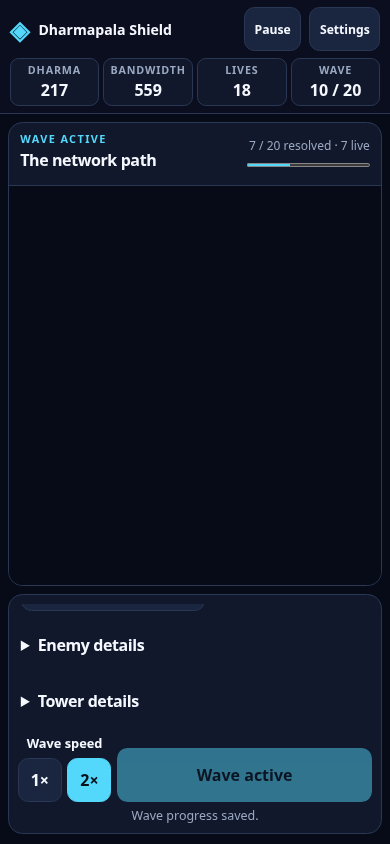
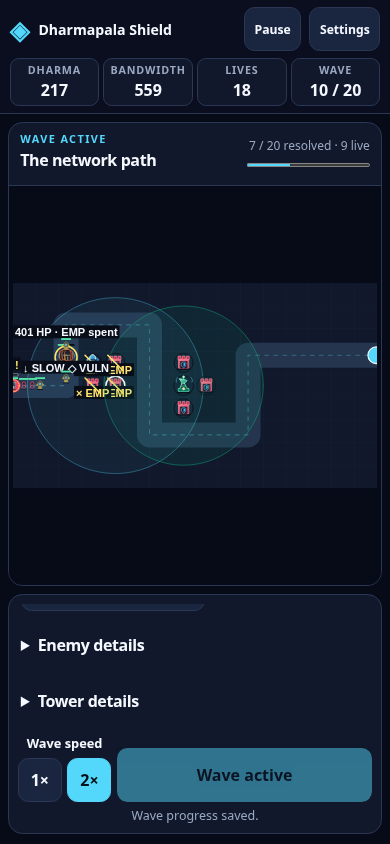
Verify production repaint after touch rotation and refine captured evidence

Changed region(s): [[0.0308, 0.3389, 0.9846, 0.5853], [0.8615, 0.154, 0.8923, 0.1848]]

diff --git a/tests/e2e/campaign.spec.js b/tests/e2e/campaign.spec.js
@@ -259,6 +259,11 @@ async function rotate(page, label, rotations, testInfo) {
     const start = page.locator('#start-wave-button');
     await expect(start).toBeInViewport({ ratio: 1 });
     await expect(start).toBeEnabled({ enabled: before.state.phase === 'BUILDING' });
+    // ResizeObserver can clear the bitmap after the earlier frame. Allow the
+    // next ordinary production frames to paint, then verify visible canvas ink.
+    await page.clock.runFor(32);
+    expect(await page.locator('#game-canvas').evaluate(canvas =>
+      canvas.getContext('2d').getImageData(0, 0, 1, 1).data[3])).toBe(255);
     const current = await snapshot(page);
     expect(current.state.phase).toBe(before.state.phase);
     if (before.state.phase === 'BUILDING') expect(current.state.resources).toEqual(before.state.resources);

diff --git a/design/reviews/2026-11-14-m4.5-touch-audit/README.md b/design/reviews/2026-11-14-m4.5-touch-audit/README.md
@@ -78,6 +78,19 @@ than an enabled generic Upgrade button, and reinspection must retain the
 already selected tower when comparing full build snapshots. These were test
 assumption corrections, not further product defects.
 
+An initial [portrait rotation capture](rotation-before-render.png) was taken
+after a ResizeObserver callback cleared the canvas bitmap and before the next
+paint while browser time was paused. The final driver advances another 32 ms
+of ordinary RAF after UI interaction and asserts an opaque painted canvas
+pixel before each rotation capture. It never calls resize/render manually.
+This is a harness scheduling correction, not a persistent blank battlefield
+reproduced under freely running frames. A clean-pipeline attempt at `367379c`
+was stopped during its first browser scenario to include this stronger
+checkpoint; unit/integration/simulation had passed, but that interrupted run
+is not the completed clean pipeline. One immediate focused restart reused the
+stopping server and failed reload with connection refused; the final focused
+run uses CI=1 and its own server, and passes.
+
 ## Checks and checkpoints
 
 Every wave verifies authored preview counts/windows, boss warning, roster
@@ -97,7 +110,7 @@ run at earned build before wave 4 and during active spent-EMP combat in wave
 10. They inspect the earned tower and roster in both orientations and verify
 that Start Wave stays in the viewport with the correct enabled state.
 Build rotation leaves full state/runtime unchanged. Combat rotation advances
-ordinary RAFs (64 browser ms in each orientation), retains tower identity,
+ordinary RAFs (64 browser ms after resize plus 32 ms after interaction in each orientation), retains tower identity,
 branches, lives and pending reports, and allows production combat to proceed.
 Rotation snapshots/captures are observations, not claims of physical orientation
 sensor or device testing. Natural victory freezes, survives reload/Continue,
@@ -126,7 +139,7 @@ lives, duration and summed tower activity. No historical artifact was refreshed.
 | Earned bounty | 7380 / 3677 / 0 |
 | Clear income, including passive Dharma | 3932 / 1153 / 0 |
 | Production combat time | 385733.3333334162 ms (385.733 s) |
-| Focused automation wall time | 103696.154 ms (103.696 s); machine-dependent |
+| Focused automation wall time | 100853.487 ms (100.853 s); machine-dependent |
 
 The whole-campaign ledger is `130 + 7380 + 3932 - 9215 = 2227` Dharma,
 `60 + 3677 + 1153 - 1062 = 3828` Bandwidth, and zero numeric Anonymity.
@@ -134,17 +147,17 @@ This is M4.3's `save` recovery, not its different `existing` opening.
 
 | Paused reload checkpoint | Combat ms | Reports | Resources D/B/A | Retained combat state |
 | --- | ---: | ---: | --- | --- |
-| Build before wave 4 | 62516.667 | 3 | 85/84/0 | Earned towers/explicit branches |
-| Wave-10 spent EMP, after rotation | 173616.667 | 9 | 217/559/0 | Live Raid 400.8276 health, phase 1 fired; minions/schedule retained |
-| Wave-15 damaged Titan | 238716.667 | 14 | 74/1263/0 | Live Titan 1045 health, 359.92 shield |
+| Build before wave 4 | 62516.667 | 3 | 85/84/0 | Earned tower levels (no level-3 choice yet) |
+| Wave-10 spent EMP, after rotation | 173733.333 | 9 | 217/559/0 | Live Raid 400.8276 health, phase 1 fired; minions/schedule retained |
+| Wave-15 damaged Titan | 238700.000 | 14 | 74/1263/0 | Live Titan 1045 health, 359.92 shield |
 | Build before wave 16 | 256533.333 | 15 | 71/1644/0 | Earned towers/explicit branches; subsequent purchases succeed |
 
 All four keep 2× and pass complete snapshot/state/runtime equality on
 reload/Continue. Build rotation keeps 62516.667 combat ms exactly. Active
-rotation advances 173366.667 → 173483.333 → 173616.667 combat ms through
+rotation advances 173350.000 → 173550.000 → 173733.333 combat ms through
 ordinary scheduled frames at 2×; wave duration and all later gameplay still
-match the desktop run. Native scrolls moved 2648→2528 and 2963→2864 in the
-build scroller, and 278→147 in Victory. These are captured positions, not
+match the desktop run. Native scrolls moved 2648→2555 and 2963→2872 in the
+build scroller, and 278→149 in Victory. These are captured positions, not
 portable pixel expectations.
 
 The inspected [build portrait](build-portrait.png) /
@@ -161,7 +174,7 @@ Browser time uses the merged Playwright clock installation. `clock.runFor`
 executes the normal scheduled RAF/timer sequence rather than emitting one
 large delta or replacing a combat method. Combat slices remain 256 ms initially,
 1024 ms normally and 256 ms while seeking boss checkpoints; rotations add
-64 ms per orientation. Swipe settling advances 256 ms in building/terminal
+64 ms after resize plus 32 ms for post-interaction paint per orientation. Swipe settling advances 256 ms in building/terminal
 phases, which cannot add combat time. Build, paused and terminal frame slices
 are checked separately.
 
